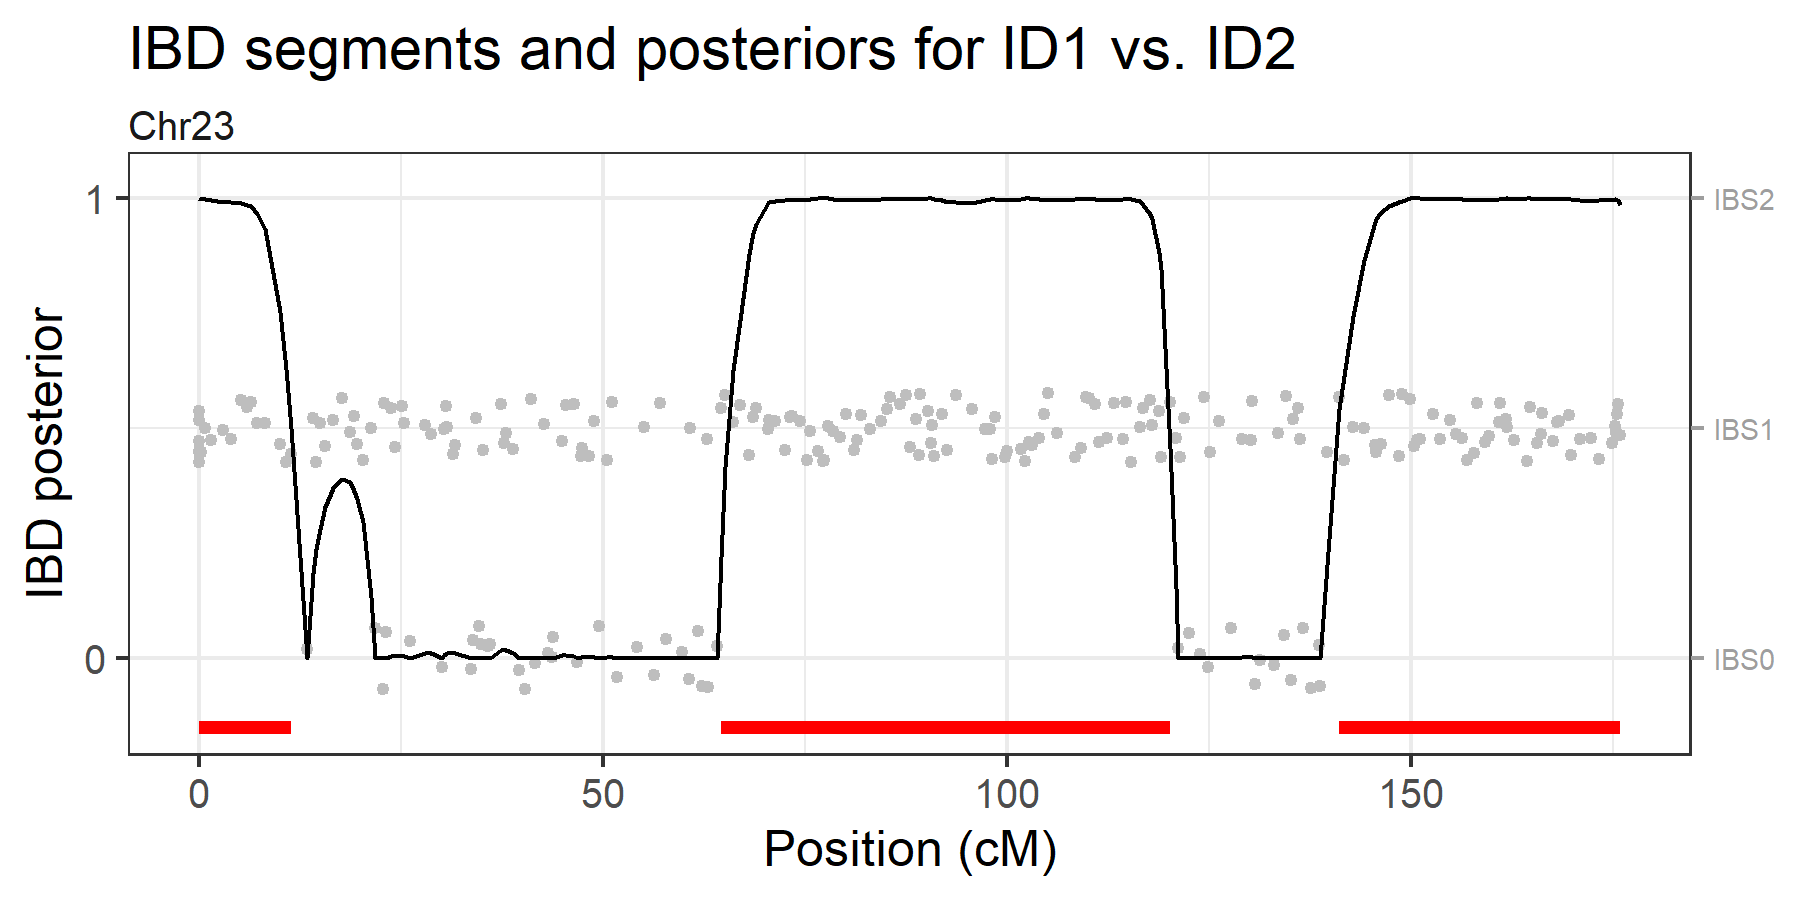
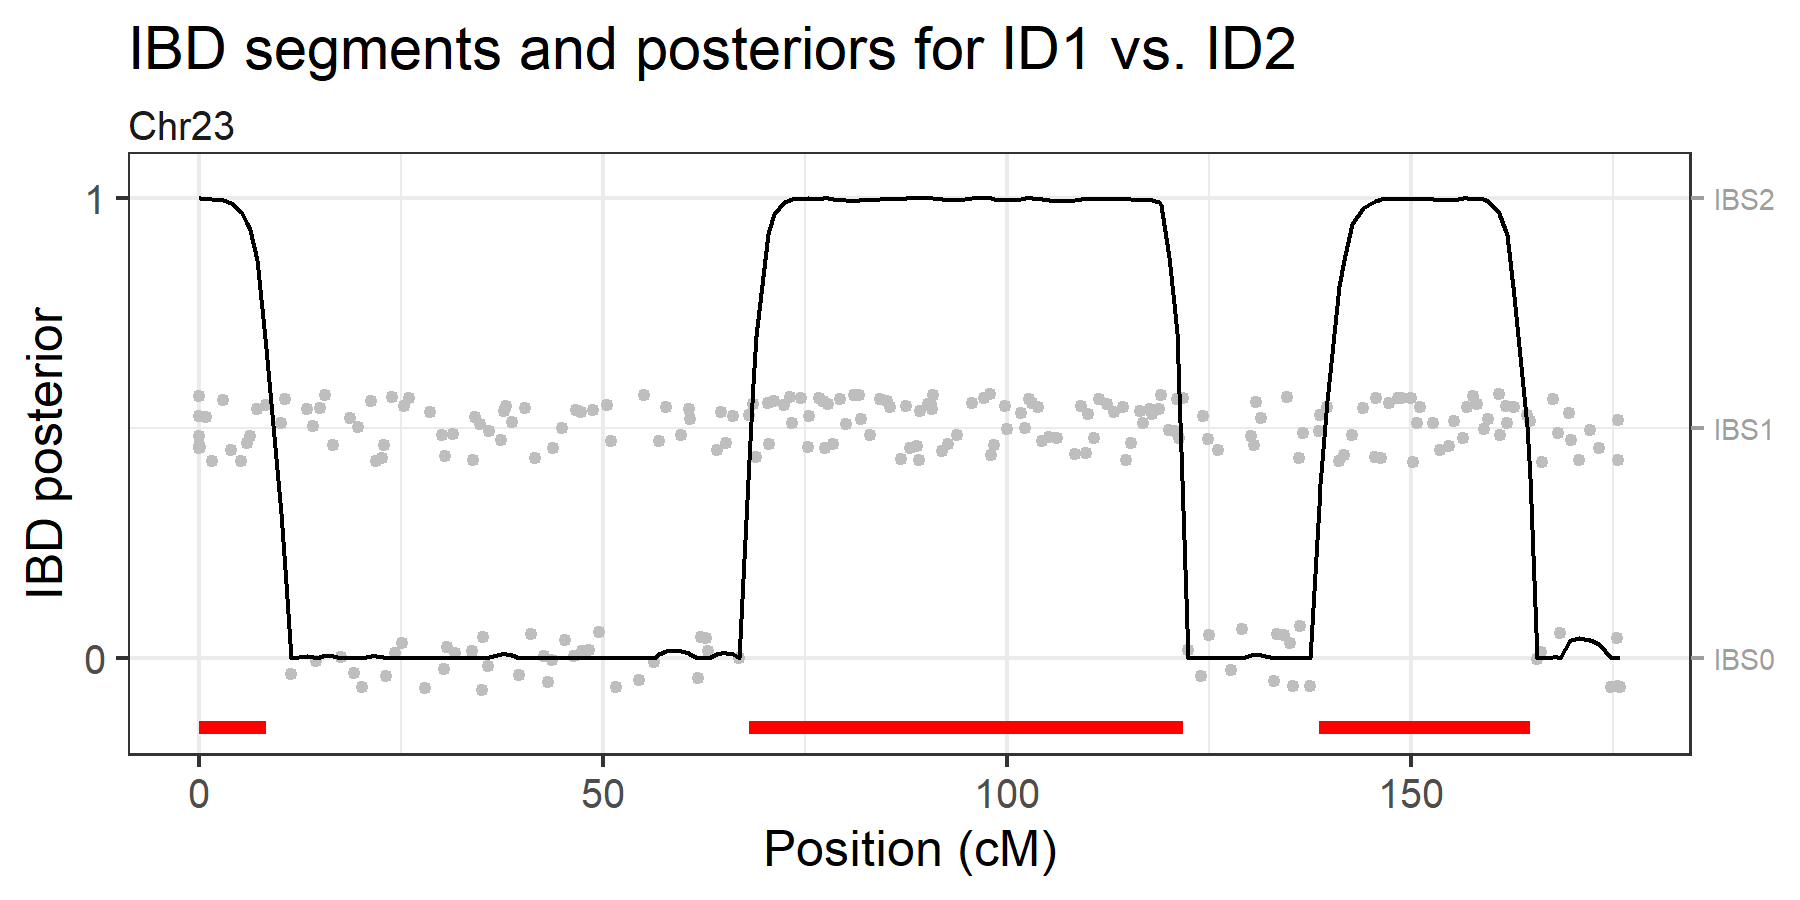
Bump version to 0.3.0; update README

diff --git a/README.md b/README.md
@@ -35,12 +35,12 @@ head(cousinsDemo)
 #> # A tibble: 6 × 9
 #>   CHROM MARKER        MB    CM A1    A2    FREQ1 ID1   ID2  
 #>   <chr> <chr>      <dbl> <dbl> <chr> <chr> <dbl> <chr> <chr>
-#> 1 1     rs9442372   1.08 0     G     A     0.611 A/G   A/G  
-#> 2 1     rs4648727   1.84 0.328 C     A     0.637 A/A   A/C  
-#> 3 1     rs10910082  2.49 1.24  T     C     0.626 T/T   C/T  
-#> 4 1     rs6695131   3.08 2.00  C     T     0.572 C/T   C/C  
-#> 5 1     rs3765703   3.68 4.81  T     G     0.594 T/T   T/T  
-#> 6 1     rs7367066   3.89 5.86  C     T     0.674 C/C   C/C
+#> 1 1     rs9442372   1.08 0     A     G     0.389 A/G   G/G  
+#> 2 1     rs4648727   1.84 0.180 A     C     0.363 A/C   A/C  
+#> 3 1     rs10910082  2.49 1.27  C     T     0.374 C/T   C/T  
+#> 4 1     rs6695131   3.08 1.98  C     T     0.572 C/T   C/T  
+#> 5 1     rs3765703   3.68 4.84  G     T     0.406 G/G   T/T  
+#> 6 1     rs7367066   3.89 5.77  C     T     0.674 C/C   C/C
 ```
 
 The function `findIBD()` conveniently wraps the key steps of the
@@ -56,11 +56,11 @@ ibd = findIBD(cousinsDemo)
 #> Chromosome type: autosomal 
 #> Fitting HMM parameters...
 #>   Optimising `k1` and `a` jointly
-#>   k1 = 0.128, a = 5.070
+#>   k1 = 0.185, a = 7.435
 #> Finding IBD segments...
-#>   10 segments (total length: 481.10 cM)
+#>   14 segments (total length: 597.21 cM)
 #> Calculating IBD posteriors...
-#> Analysis complete in 0.974 secs
+#> Analysis complete in 0.757 secs
 ```
 
 For details of the different steps, see the documentation of the
@@ -90,11 +90,11 @@ ibdX = findIBD(brothersX)
 #> Chromosome type: X (male/male) 
 #> Fitting HMM parameters...
 #>   Optimising `k1` and `a` jointly
-#>   k1 = 0.652, a = 7.102
+#>   k1 = 0.649, a = 6.635
 #> Finding IBD segments...
-#>   3 segments (total length: 101.74 cM)
+#>   3 segments (total length: 88.05 cM)
 #> Calculating IBD posteriors...
-#> Analysis complete in 0.0919 secs
+#> Analysis complete in 0.0389 secs
 
 plotIBD(ibdX)
 ```
